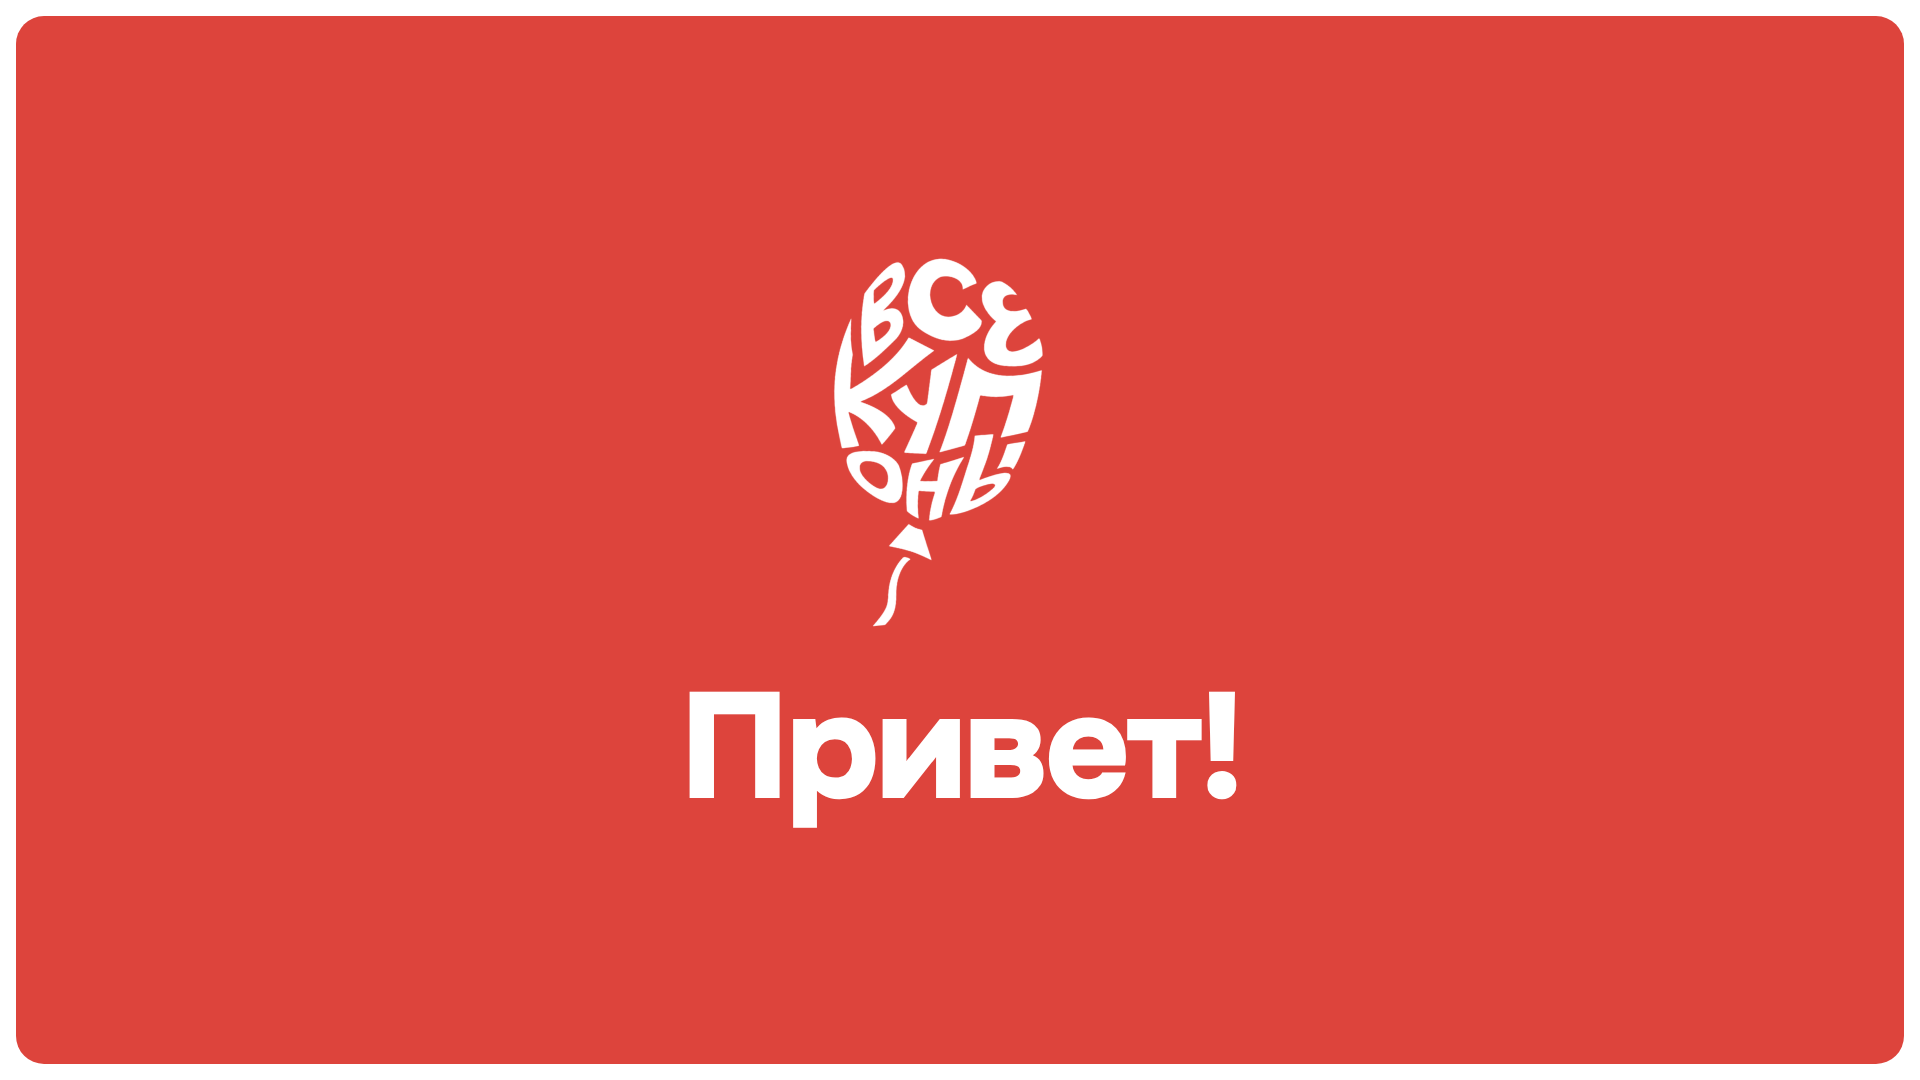
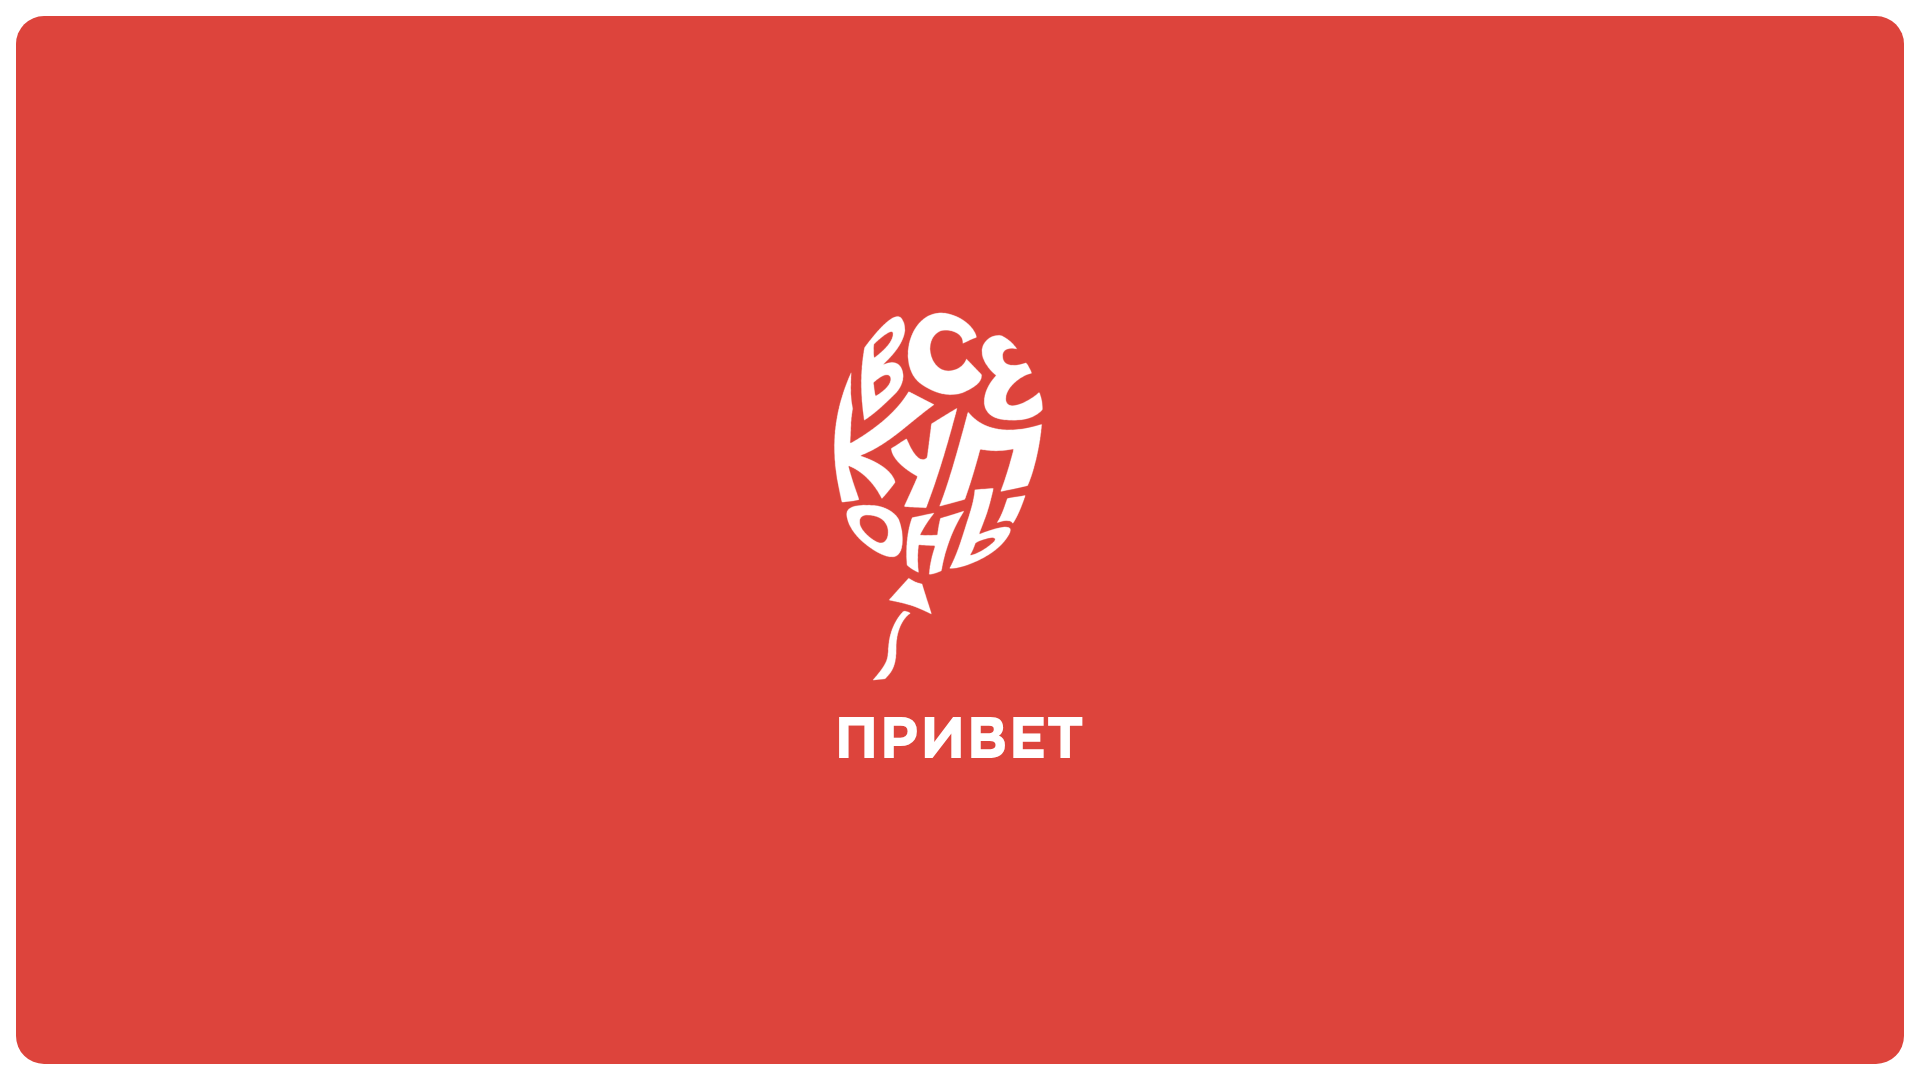
Презентация v3: заставка — маленькое «ПРИВЕТ» капсом в ширину знака
Claude-Session: https://claude.ai/code/session_01Snvup9eyYcWggZAX2KLTqV

Changed region(s): [[0.3438, 0.2444, 0.6562, 0.7639]]

diff --git a/social-kit/deck-v3.html b/social-kit/deck-v3.html
@@ -257,9 +257,9 @@ a{color:inherit;text-decoration:none}
 .off > span:not(.tk){font-size:22px;font-weight:600;line-height:1.3;color:var(--ink-2);white-space:nowrap}
 
 /* 0. Заставка: знак и «Привет!» по центру красного поля */
-.hi{position:absolute;inset:0;display:flex;flex-direction:column;align-items:center;justify-content:center;gap:56px}
+.hi{position:absolute;inset:0;display:flex;flex-direction:column;align-items:center;justify-content:center;gap:40px}
 .hi__m{height:360px;width:auto;transform:rotate(-6deg);transform-origin:50% 90%}
-.hi__t{font-size:150px;font-weight:800;letter-spacing:-.03em;line-height:1;color:#fff}
+.hi__t{font-size:40px;font-weight:800;letter-spacing:.04em;line-height:1;color:#fff;white-space:nowrap}
 
 /* ==========================================================================
    Красный слайд (правка 08.10): презентация белая подряд — скучно; через
@@ -739,7 +739,7 @@ a{color:inherit;text-decoration:none}
   <!-- ===================== 0. Привет — заставка ===================== -->
   <section class="slide slide--red" id="s0">
     <div class="cpn__l cpn__l--full">
-      <div class="hi"><img class="hi__m" src="../assets/brand/logo-white.png" alt="ВСЕКУПОНЫ"><div class="hi__t">Привет!</div></div>
+      <div class="hi"><img class="hi__m" src="../assets/brand/logo-white.png" alt="ВСЕКУПОНЫ"><div class="hi__t">ПРИВЕТ</div></div>
     </div>
   </section>
 
@@ -1307,6 +1307,18 @@ a{color:inherit;text-decoration:none}
     var s6 = document.getElementById("s6"), z6 = s6.getBoundingClientRect().height / 1080, b6 = s6.getBoundingClientRect().top;
     var tb = (s6.querySelector(".trio").getBoundingClientRect().bottom - b6) / z6;
     s6.querySelector(".ten").style.top = Math.round((tb + 1080 - 16) / 2) + "px";
+  });
+
+  /* Заставка: «ПРИВЕТ» маленький, ровно в ширину знака */
+  document.fonts.ready.then(function () {
+    var m = document.querySelector(".hi__m"), t = document.querySelector(".hi__t");
+    if (!m || !t) return;
+    function fitHi() {
+      var mw = m.getBoundingClientRect().width / (m.closest(".slide").getBoundingClientRect().width / 1920);
+      t.style.fontSize = "40px";
+      t.style.fontSize = (40 * mw / t.offsetWidth) + "px";
+    }
+    if (m.complete) fitHi(); else m.onload = fitHi;
   });
 
   /* Висячие предлоги и союзы (правка 08.10): короткое слово в конце строки
